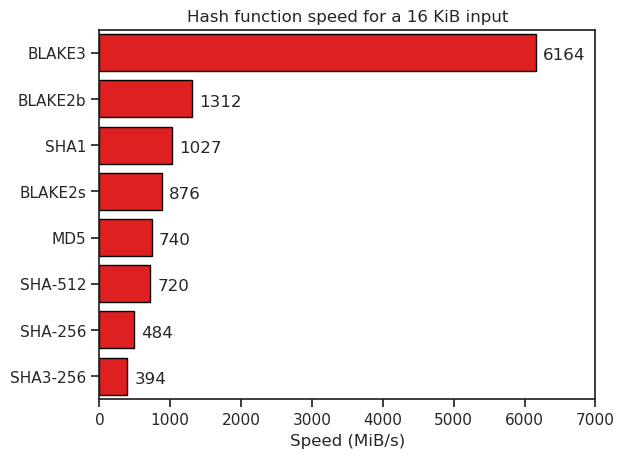
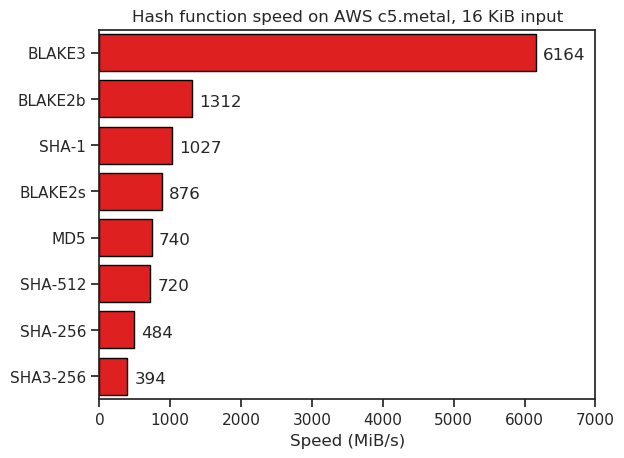
hyphenate SHA-1 and add more detail to the title

Changed region(s): [[0.2131, 0.0, 0.9135, 0.0611], [0.0609, 0.3057, 0.1522, 0.3362]]

diff --git a/benchmarks/bar_chart.py b/benchmarks/bar_chart.py
@@ -18,7 +18,7 @@ THIS_FILE = Path(__file__)
 BARS = [
     ("BLAKE3", 6164),
     ("BLAKE2b", 1312),
-    ("SHA1", 1027),
+    ("SHA-1", 1027),
     ("BLAKE2s", 876),
     ("MD5", 740),
     ("SHA-512", 720),
@@ -59,7 +59,7 @@ def main():
         # linewidth=3,
     )
     show_values_on_bars(plot.axes)
-    plot.set_title("Hash function speed for a 16 KiB input")
+    plot.set_title("Hash function speed on AWS c5.metal, 16 KiB input")
     plot.set(xlabel="Speed (MiB/s)")
     plot.set(ylabel=None)
     pyplot.xlim(0, 7000)
